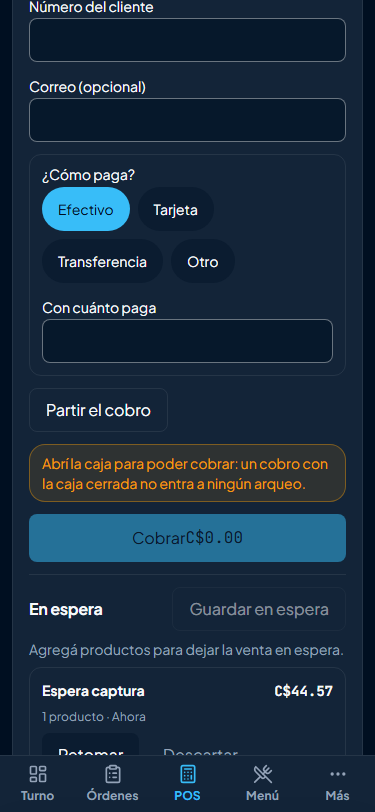
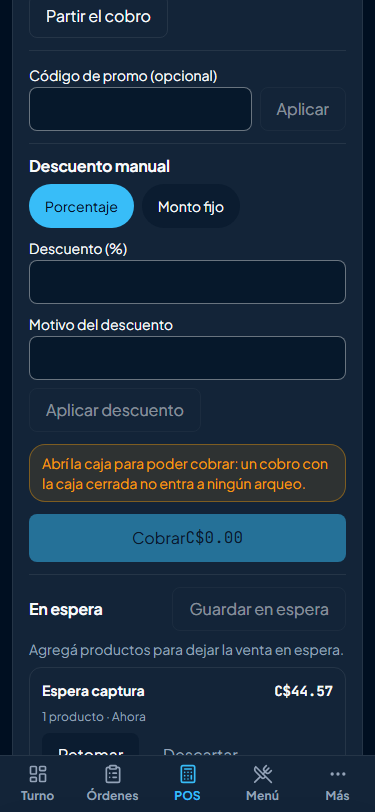
docs(pos): deploy de 9.6/9.7 y capturas reales de produccion
Produccion quedo en **build-20260918-051408** (sha `9cf30f7`), `readiness: ready` (base en 1 ms) y los
dos smokes en verde: menu 7/7 y hosts 6/6. Una sola llamada a `deployService` (accion `done`).

`scripts/capture-pos-produccion.mjs` ahora cubre las cuatro tareas del POS de la ronda contra el panel de
verdad: la venta en espera (guardar, descartar con su confirmacion), el **cupon** (crea una promo real del
10 % desde la propia pagina, la aplica y la **borra**) y el **descuento manual** con su motivo. No toca
datos: la espera vive en el `localStorage`, la promo se crea y se borra, y la venta no se cobra.

Capturas a 1280 y 375 px: `tarea-9-4-*`, `tarea-9-5-*`, `tarea-9-6-promo-aplicada-produccion-*.png` y
`tarea-9-7-descuento-manual-produccion-*.png`.

diff --git a/ops/project-state.md b/ops/project-state.md
@@ -1,16 +1,17 @@
 # Estado del proyecto — One Burger Commerce
 
-> Actualizado: 2026-09-18 · Último deploy a producción: 2026-09-18, commit `8bf1b08` (build
-> `build-20260918-042336`, deploy por API sobre el servicio `oneburguerweb`, acción `done`; readiness
-> `ready` con la base en 1 ms y los dos smokes en verde: menú 7/7 y hosts 6/6). Ese build lleva la
-> **venta en espera del POS** (tareas 9.4/9.5: dejar la venta a un lado, liberar el mostrador y retomarla
-> completa, con la clave del intento de cobro viajando con ella) y el arreglo del primitivo `Modal`
-> (salía pegado a la esquina porque el reset de Tailwind borra el `margin: auto` con el que el navegador
-> centra el `dialog:modal`). Verificado **en producción** con capturas reales del panel
-> (`ops/tasks/audit-ui/tarea-9-4-venta-en-espera-produccion-*.png`,
-> `tarea-9-5-descartar-confirmacion-produccion-*.png`). El build anterior
-> (`build-20260917-193443`, commit `d5da7ce`) llevaba el reporte diario de caja (1.5) y el cierre del PDF del cierre
-> en el navegador (1.6). Lleva también
+> Actualizado: 2026-09-18 · Último deploy a producción: 2026-09-18, commit `9cf30f7` (build
+> `build-20260918-051408`, deploy por API sobre el servicio `oneburguerweb`, acción `done`; readiness
+> `ready` con la base en 1 ms y los dos smokes en verde: menú 7/7 y hosts 6/6). Ese build lleva las
+> cuatro tareas del POS de esta ronda: **9.4/9.5** (la venta **en espera**: dejar la venta a un lado,
+> liberar el mostrador y retomarla completa, con la clave del intento de cobro viajando con ella),
+> **9.6** (cupones en el POS: el servidor cotiza el descuento sobre la venta en curso antes de cobrar)
+> y **9.7** (descuentos manuales con permiso propio —owner y manager—, firmados en el log con su
+> motivo), más el arreglo del primitivo `Modal` (salía pegado a la esquina porque el reset de Tailwind
+> borra el `margin: auto` con el que el navegador centra el `dialog:modal`). Verificado **en
+> producción** con capturas reales del panel
+> (`ops/tasks/audit-ui/tarea-9-*-produccion-*.png`). El build anterior
+> (`build-20260918-042336`, commit `8bf1b08`) llevaba las tareas 1.2/1.5/1.6/7.3. Lleva también
 > la configuración de las **alertas Telegram** (driver `telegram_alerts`, token del bot y scheduler del
 > outbox por entorno), con el grupo del negocio cargado y la conexión probada con un mensaje real
 > (`Conectado`, captura en `ops/tasks/audit-ui/alertas-telegram-produccion-1280.png`). Lleva el **panel entero migrado al sistema Stitch** —Fase 1 (tokens, tipografías,
@@ -48,12 +49,15 @@
 > **Ronda del roadmap POS (en curso, 2026-09-17)**: de las 8 tareas que el owner confirmó para cerrar el
 > roadmap antes del rediseño del menú público, ya están **1.2** (desglose por medio al cerrar), **1.5**
 > (reporte diario de caja consolidado), **1.6** (el PDF del cierre se genera desde el navegador, sin
-> dependencia nueva) y **7.3** (helper E2E con rol `cashier`). Recién cerradas: **9.4/9.5** — la venta
-> **en espera** del mostrador (guardar la venta a un lado y retomarla completa, con la clave del intento
-> viajando con ella; vive en la terminal, como el borrador) y, en el camino, un bug del primitivo
-> `Modal` (salía pegado a la esquina: el reset de Tailwind borra el `margin: auto` con el que el navegador
-> centra el `dialog:modal`). Faltan **9.6** (promos/cupones en el POS), **9.7** (descuentos manuales con
-> permiso) y la **factura simple no fiscal**. El **rediseño del menú público no se toca** en esta ronda.
+> dependencia nueva), **7.3** (helper E2E con rol `cashier`), **9.4/9.5** (la venta **en espera** del
+> mostrador: guardar la venta a un lado y retomarla completa, con la clave del intento viajando con ella;
+> vive en la terminal, como el borrador), **9.6** (cupones en el POS: el servidor cotiza el descuento
+> sobre la venta en curso antes de cobrar, con la misma fórmula que usa el alta) y **9.7** (descuentos
+> manuales con permiso propio —owner y manager—, con motivo obligatorio y asentados en el log de acciones
+> sensibles). En el camino apareció y se arregló un bug del primitivo `Modal` (salía pegado a la esquina:
+> el reset de Tailwind borra el `margin: auto` con el que el navegador centra el `dialog:modal`).
+> **Falta la factura simple no fiscal** (ítem 4 de la ronda) para cerrar el roadmap. El **rediseño del
+> menú público no se toca** en esta ronda.
 
 ## 1. Qué está vivo hoy
 
